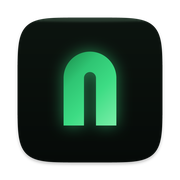
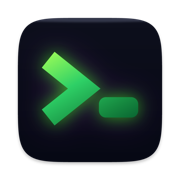
feat: update site for Goblin Portal v1.1.0
- Bump version to v1.1.0 across SITE_META and RELEASE (constants.ts)
- Update download URL to v1.1.0 DMG
- Replace release highlights: new icon, CLI --wait, Ghostty removal,
  vertical splits
- Update release date to September 16, 2026
- Add vertical split keybinding (⌘⇧-) to keymap
- Replace all icon assets (1024/512/192) and favicon suite with new
  acid-green portal bloom icon from app repo
- Update What's New subhead and install section copy

diff --git a/src/lib/constants.ts b/src/lib/constants.ts
@@ -11,9 +11,9 @@ export const SITE_META = {
   tagline: 'A Mac terminal that takes AI agents seriously.',
   description:
     'The native macOS terminal for AI agents. Claude Code, Codex, Hermes, Agent AFK. Swift/AppKit. No Electron.',
-  version: 'v1.0.0',
+  version: 'v1.1.0',
   repoUrl: 'https://github.com/griffinwork40/goblin-portal',
-  dmgUrl: 'https://github.com/griffinwork40/goblin-portal/releases/download/v1.0.0/GoblinPortal-v1.0.0.dmg',
+  dmgUrl: 'https://github.com/griffinwork40/goblin-portal/releases/download/v1.1.0/GoblinPortal-v1.1.0.dmg',
   releasesUrl: 'https://github.com/griffinwork40/goblin-portal/releases',
 } as const
 
@@ -28,38 +28,30 @@ export const RELEASE: {
   date: string
   highlights: ReleaseHighlight[]
 } = {
-  version: 'v1.0.0',
-  date: 'August 25, 2026',
+  version: 'v1.1.0',
+  date: 'September 16, 2026',
   highlights: [
     {
-      title: 'Community Themes',
+      title: 'New Icon',
       description:
-        'Catppuccin Mocha, Nord, and Dracula, ported verbatim from their upstream specs and gated by the contrast harness (474 assertions).',
-      configExample: '"preset": "catppuccin-mocha"',
+        'Acid-green >_ prompt with a layered portal bloom. The Goblin Portal identity lives in the colour, not a literal portal shape.',
     },
     {
-      title: 'Auto Dark / Light',
+      title: 'CLI --wait for $EDITOR',
       description:
-        'Follow macOS appearance automatically. Goblin Portal switches between a dark and light palette when System Settings changes.',
-      configExample: '"preset": "auto"',
+        'GoblinPortal --wait <file> opens a file in the editor and blocks until the tab closes. Set it as your $EDITOR for git commit messages, crontab, and anything else that expects a blocking editor.',
+      configExample: 'EDITOR="/path/to/GoblinPortal.app/Contents/MacOS/GoblinPortal --wait"',
     },
     {
-      title: 'Split-Pane Dimming',
+      title: 'Ghostty Engine Removed',
       description:
-        'Unfocused split panes dim to visually distinguish the active pane. Fully configurable.',
-      configExample: '"unfocusedPaneOpacity": 0.85',
+        'SwiftTerm is now the sole terminal engine. Smaller binary, cleaner build, simpler codebase.',
     },
     {
-      title: 'Typography Controls',
+      title: 'Vertical Splits',
       description:
-        'Font dilation for white-on-black text (the same technique Terminal.app uses) and configurable line height.',
-      configExample: '"fontThicken": true, "lineHeight": 1.2',
-    },
-    {
-      title: 'Terminal Padding',
-      description:
-        'Configurable inner margin around terminal content with seamless background color matching.',
-      configExample: '"padding": 8',
+        'Split panes vertically with \u2318\u21E7-. The v2 split architecture now supports both horizontal and vertical layouts.',
+      configExample: '\u2318\u21E7- to split down, \u2318\u21E7\\ to split right',
     },
   ],
 }
@@ -198,6 +190,7 @@ export const KEYMAP: KeymapGroup[] = [
     entries: [
       { shortcut: '⌘B', description: 'Toggle sidebar' },
       { shortcut: '⌘⇧\\', description: 'Split pane right' },
+      { shortcut: '⌘⇧-', description: 'Split pane down' },
       { shortcut: '⌘⇧H/J/K/L', description: 'Focus pane left / down / up / right' },
       { shortcut: '⌃⌘F', description: 'Full screen' },
       { shortcut: '⌘R', description: 'Reload config' },

diff --git a/src/components/release/WhatsNew.tsx b/src/components/release/WhatsNew.tsx
@@ -106,7 +106,7 @@ export default function WhatsNew() {
           <Badge>{RELEASE.version}</Badge>
         </div>
         <p style={subheadStyle}>
-          {RELEASE.date}. Eight measured themes, system appearance following, split-pane dimming, and typography controls.
+          {RELEASE.date}. New icon, $EDITOR support, vertical splits, and a leaner engine.
         </p>
 
         <div style={gridStyle} className="release-grid">

diff --git a/src/components/install/InstallSection.tsx b/src/components/install/InstallSection.tsx
@@ -174,7 +174,7 @@ export default function InstallSection() {
             Download Goblin Portal {SITE_META.version}
           </Button>
           <p style={downloadSubStyle}>
-            Universal binary · 1.7 MB · signed &amp; notarized
+            Universal binary · signed &amp; notarized
           </p>
         </div>
 
